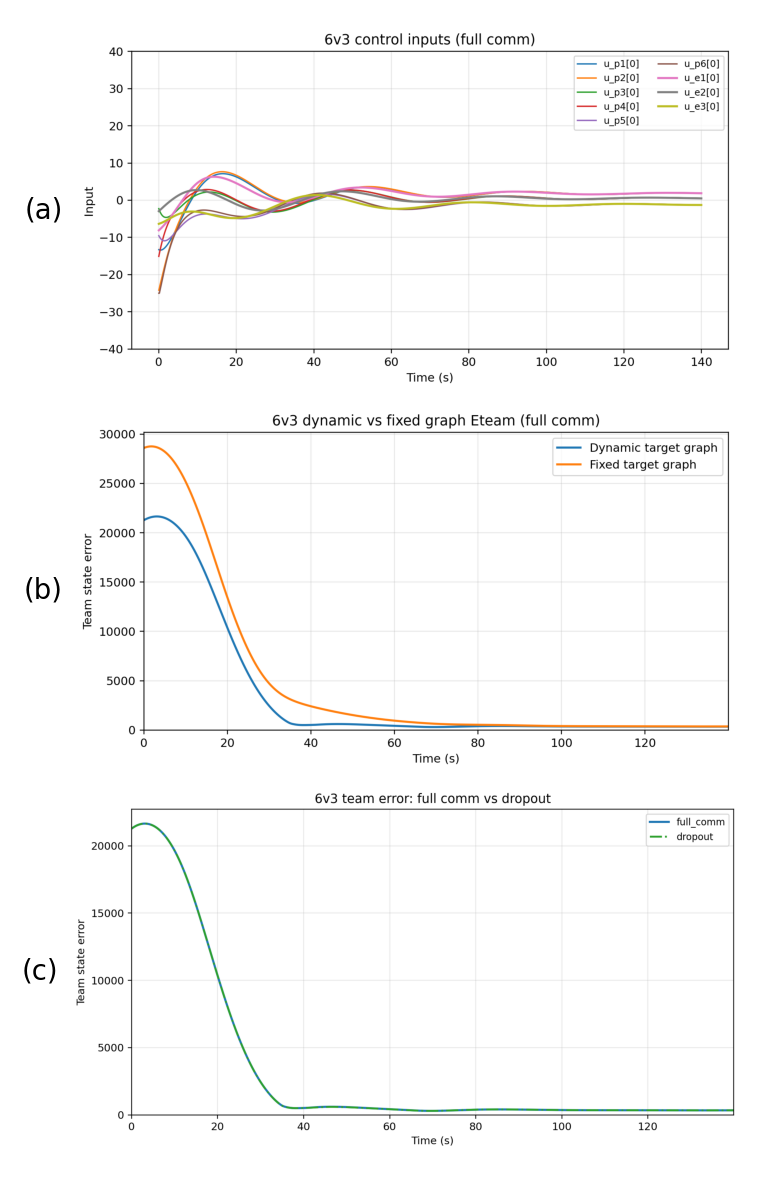
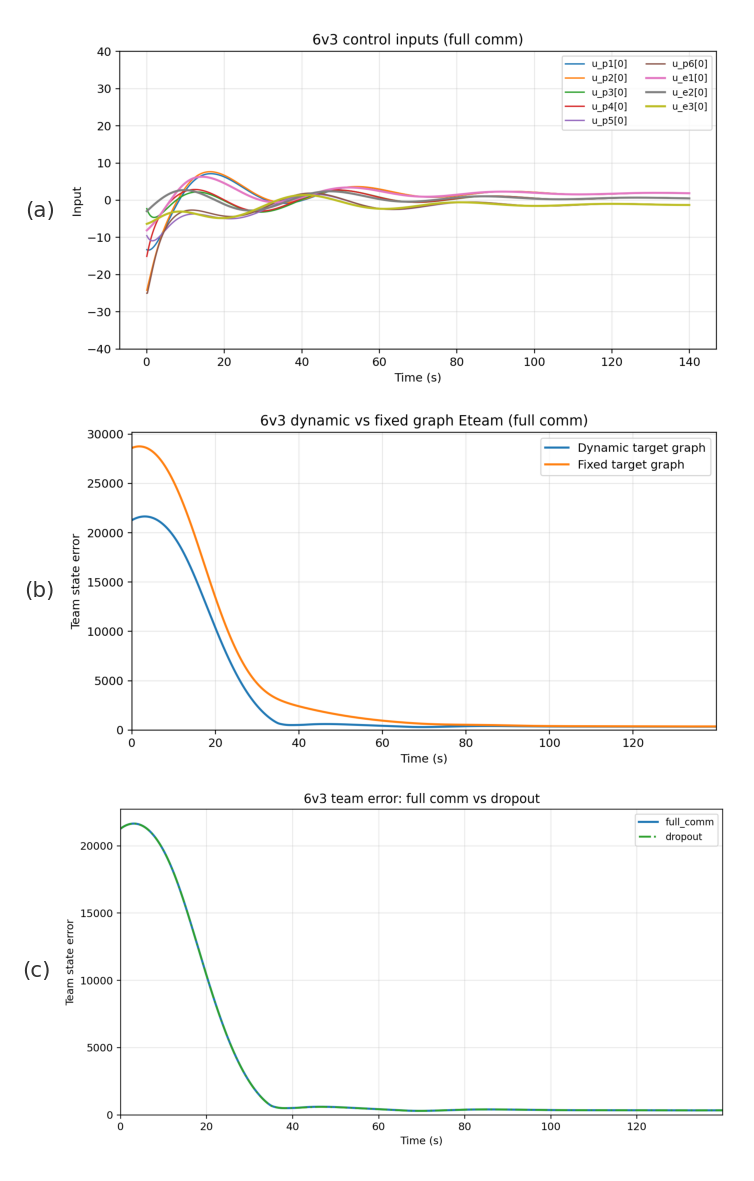
fix: shrink subfigure labels (size 7, light, gray), force figure placement
- Labels: fontsize 7, fontweight light, color #333 (not black/bold)
- All figures use [!htbp] for stronger placement priority

diff --git a/mpe_game/repro_vsnac_mpe_comm/PAPER_COMM_VSNAC.tex b/mpe_game/repro_vsnac_mpe_comm/PAPER_COMM_VSNAC.tex
@@ -255,13 +255,13 @@ $d_{\min}$ (km) & 0.00 & 1.09 & 1.31 & 1.42 & 1.50 & 1.52 \\
 
 Table~\ref{tab:collision} shows that without coordination the pursuers collide, while any positive $\gamma$ immediately establishes safe separation. The monotonic increase saturates around $\gamma = 5$, as the $\tanh$ bound limits the maximum deflection from the tracking-optimal path.
 
-\begin{figure}[htbp]
+\begin{figure}[!htbp]
 \centerline{\includegraphics[width=\linewidth]{paper_figures/fig_collision_traj.png}}
 \caption{Controlled crossing scenario. Left: without communication ($\gamma{=}0$), pursuer paths physically cross, producing a collision ($d_{\min} \approx 0$). Right: with adaptive communication ($\gamma{=}5$), the coordination potential drives early lateral separation.}
 \label{fig:collision_traj}
 \end{figure}
 
-\begin{figure}[htbp]
+\begin{figure}[!htbp]
 \centerline{\includegraphics[width=\linewidth]{paper_figures/fig_collision_dmin.png}}
 \caption{Inter-pursuer distance over time for the controlled crossing scenario. The adaptive coordination maintains $d_{\min}$ above $d_{\mathrm{safe}} = 0.5$\,km (red dotted line), while the uncoordinated baseline drops to near zero.}
 \label{fig:collision_dmin}
@@ -273,7 +273,7 @@ Fig.~\ref{fig:collision_traj} shows the crossing trajectories: under $\gamma = 0
 
 The 6v3 scenario exercises all three layers simultaneously: V-SNAC tracking, dynamic target assignment, and intra-group coordination. The initial assignment uses a deliberately suboptimal shifted pattern $A_{pe} = [1,2,0,1,2,0]$ to demonstrate the dynamic reassignment mechanism.
 
-\begin{figure}[htbp]
+\begin{figure}[!htbp]
 \centerline{\includegraphics[width=\linewidth]{paper_figures/fig_trajectory_6v3.png}}
 \caption{6v3 pursuit trajectories. Six pursuers track three evaders with dynamic target reassignment and communication-based coordination.}
 \label{fig:traj_6v3}
@@ -281,7 +281,7 @@ The 6v3 scenario exercises all three layers simultaneously: V-SNAC tracking, dyn
 
 Fig.~\ref{fig:traj_6v3} shows the pursuit geometry. The pairwise swap algorithm immediately detects that the initial shifted assignment is suboptimal and reassigns all six pursuers to their nearest evaders.
 
-\begin{figure}[htbp]
+\begin{figure}[!htbp]
 \centerline{\includegraphics[width=\linewidth]{paper_figures/fig_6v3_errors_stack.png}}
 \caption{6v3 tracking error analysis. (a)~Errors before (dashed) and after (solid) target reassignment: old-assignment errors diverge while new-assignment errors converge. (b)~Post-reassignment error norms: all six pursuers converge to near-zero bounded neighborhoods consistent with UUB stability.}
 \label{fig:errors_6v3}
@@ -289,7 +289,7 @@ Fig.~\ref{fig:traj_6v3} shows the pursuit geometry. The pairwise swap algorithm 
 
 Fig.~\ref{fig:errors_6v3}(a) confirms the benefit of dynamic reassignment: under the original assignment, several pursuers' errors grow unboundedly; after reassignment, all errors converge. Fig.~\ref{fig:errors_6v3}(b) shows that post-reassignment errors decrease from 3500--4000 to near zero, consistent with the UUB guarantee. The coordination potential preserves this convergence by operating within the remaining control authority.
 
-\begin{figure}[htbp]
+\begin{figure}[!htbp]
 \centerline{\includegraphics[width=\linewidth]{paper_figures/fig_6v3_ctrl_team.png}}
 \caption{6v3 control and team performance. (a)~Control inputs: pursuer controls saturate at $\pm 25$ during initial engagement, then transition to the linear regime; evader controls operate near $\pm 15$, reflecting the worst-case strategy from (\ref{eq:ctrl_evader}). (b)~Team state error: dynamic assignment (blue) achieves lower error than fixed (orange). (c)~Full communication vs.\ 15\% dropout: both modes converge similarly, confirming graceful degradation.}
 \label{fig:ctrl_team_6v3}

diff --git a/mpe_game/repro_vsnac_mpe_comm/PAPER_COMM_VSNAC_CN.tex b/mpe_game/repro_vsnac_mpe_comm/PAPER_COMM_VSNAC_CN.tex
@@ -390,13 +390,13 @@ $d_{\min}$ (km) & 0.00 & 1.09 & 1.31 & 1.42 & 1.50 & 1.52 \\
 表~\ref{tab:collision}显示，无协调时追逐者发生碰撞，而任何正$\gamma$均可立即建立安全间距。
 单调递增在$\gamma = 5$附近饱和，因为$\tanh$约束限制了偏离追踪最优路径的最大幅度。
 
-\begin{figure}[htbp]
+\begin{figure}[!htbp]
 \centerline{\includegraphics[width=\linewidth]{paper_figures/fig_collision_traj.png}}
 \caption{受控交叉场景。左：无通信（$\gamma{=}0$）时追逐者路径物理交叉，产生碰撞（$d_{\min} \approx 0$）。右：自适应通信（$\gamma{=}5$）时协调势驱动早期横向分离。}
 \label{fig:collision_traj}
 \end{figure}
 
-\begin{figure}[htbp]
+\begin{figure}[!htbp]
 \centerline{\includegraphics[width=\linewidth]{paper_figures/fig_collision_dmin.png}}
 \caption{受控交叉场景的追逐者间距时间曲线。自适应协调将$d_{\min}$维持在$d_{\mathrm{safe}} = 0.5$\,km（红色虚线）以上，无协调基线降至近零。}
 \label{fig:collision_dmin}
@@ -409,7 +409,7 @@ $d_{\min}$ (km) & 0.00 & 1.09 & 1.31 & 1.42 & 1.50 & 1.52 \\
 6追3场景同时运用全部三个层面：V-SNAC追踪、动态目标分配和组内协调。
 初始分配采用故意偏移的模式$A_{pe} = [1,2,0,1,2,0]$，以验证动态重分配机制。
 
-\begin{figure}[htbp]
+\begin{figure}[!htbp]
 \centerline{\includegraphics[width=\linewidth]{paper_figures/fig_trajectory_6v3.png}}
 \caption{6追3追踪轨迹。六个追逐者追踪三个逃逸者，伴随动态目标重分配和通信协调。}
 \label{fig:traj_6v3}
@@ -417,7 +417,7 @@ $d_{\min}$ (km) & 0.00 & 1.09 & 1.31 & 1.42 & 1.50 & 1.52 \\
 
 图~\ref{fig:traj_6v3}展示了追逃几何。逐对交换算法立即检测到初始分配的次优性，将所有追逐者重分配到最近的逃逸者。
 
-\begin{figure}[htbp]
+\begin{figure}[!htbp]
 \centerline{\includegraphics[width=\linewidth]{paper_figures/fig_6v3_errors_stack.png}}
 \caption{6追3追踪误差分析。(a)~重分配前（虚线）后（实线）的误差对比：原始分配误差发散，重分配后全部收敛。(b)~重分配后误差范数：全部六个追逐者收敛到近零有界邻域，符合UUB稳定性。}
 \label{fig:errors_6v3}
@@ -425,7 +425,7 @@ $d_{\min}$ (km) & 0.00 & 1.09 & 1.31 & 1.42 & 1.50 & 1.52 \\
 
 图~\ref{fig:errors_6v3}(a)确认了动态重分配的效果：原始分配下多个追逐者误差持续发散；重分配后所有误差均收敛。图~\ref{fig:errors_6v3}(b)显示重分配后误差从3500--4000降至近零，符合UUB保证。协调势在剩余控制力内工作，不影响追踪收敛性。
 
-\begin{figure}[htbp]
+\begin{figure}[!htbp]
 \centerline{\includegraphics[width=\linewidth]{paper_figures/fig_6v3_ctrl_team.png}}
 \caption{6追3控制与团队性能。(a)~控制输入：追逐者在初始阶段饱和于$\pm 25$，随后过渡到线性区间；逃逸者在$\pm 15$附近运行，反映式(\ref{eq:ctrl_evader})的最坏情况策略。(b)~团队状态误差：动态分配（蓝）较固定分配（橙）更低。(c)~全通信与15\%丢包收敛一致，确认平滑退化。}
 \label{fig:ctrl_team_6v3}
